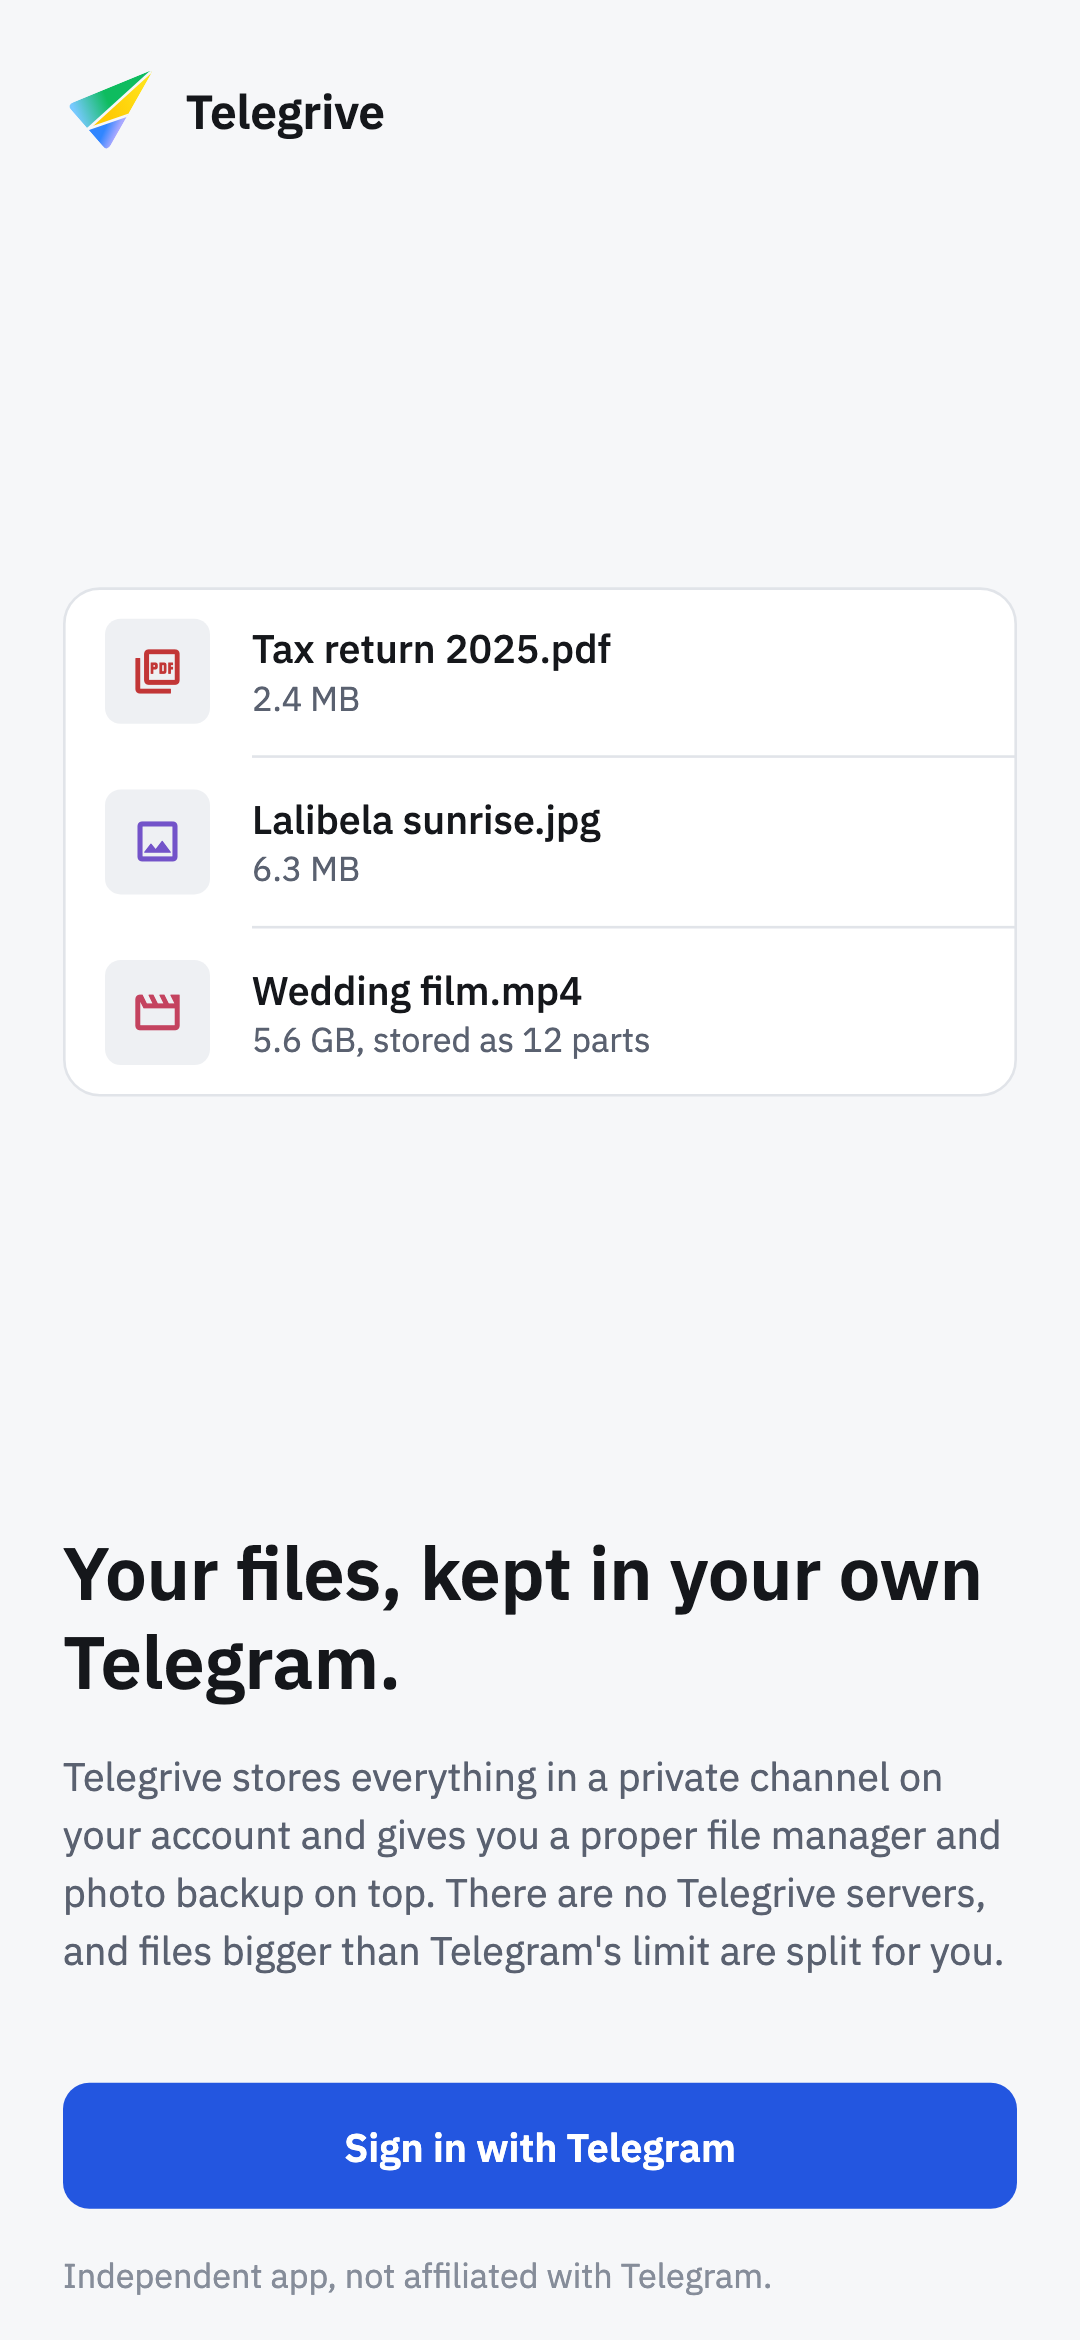
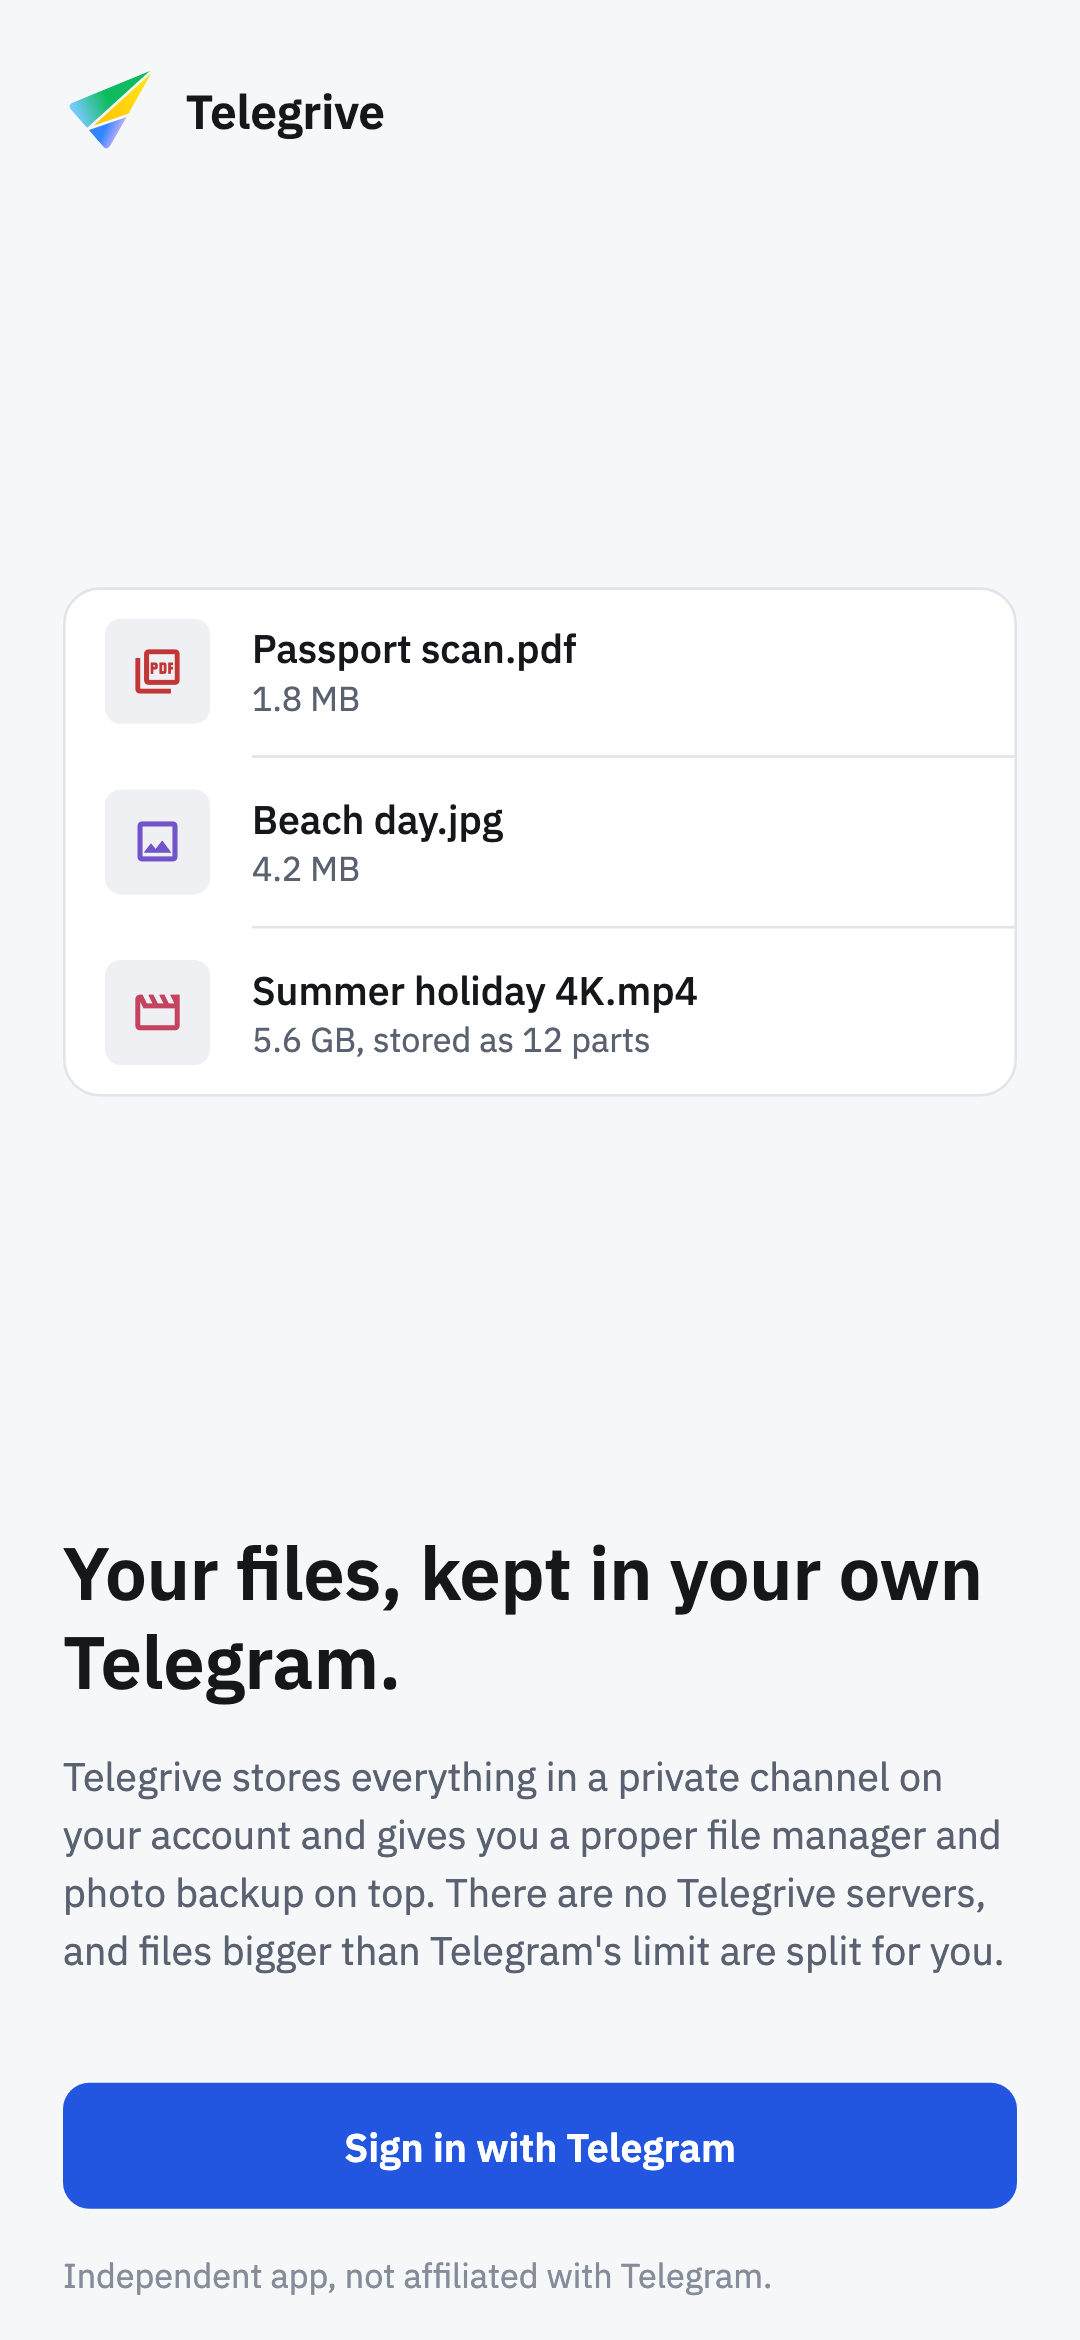
chore(welcome): everyday names for the sample files
The glimpse of the drive on the welcome screen shows a passport scan, a
beach photo and a 5.6 GB holiday video stored as 12 parts.

diff --git a/lib/features/auth/presentation/welcome_screen.dart b/lib/features/auth/presentation/welcome_screen.dart
@@ -82,9 +82,9 @@ class _Glimpse extends StatelessWidget {
   const _Glimpse();
 
   static const _files = [
-    ('Tax return 2025.pdf', '2.4 MB', FileKind.document),
-    ('Lalibela sunrise.jpg', '6.3 MB', FileKind.image),
-    ('Wedding film.mp4', '5.6 GB, stored as 12 parts', FileKind.video),
+    ('Passport scan.pdf', '1.8 MB', FileKind.document),
+    ('Beach day.jpg', '4.2 MB', FileKind.image),
+    ('Summer holiday 4K.mp4', '5.6 GB, stored as 12 parts', FileKind.video),
   ];
 
   @override
